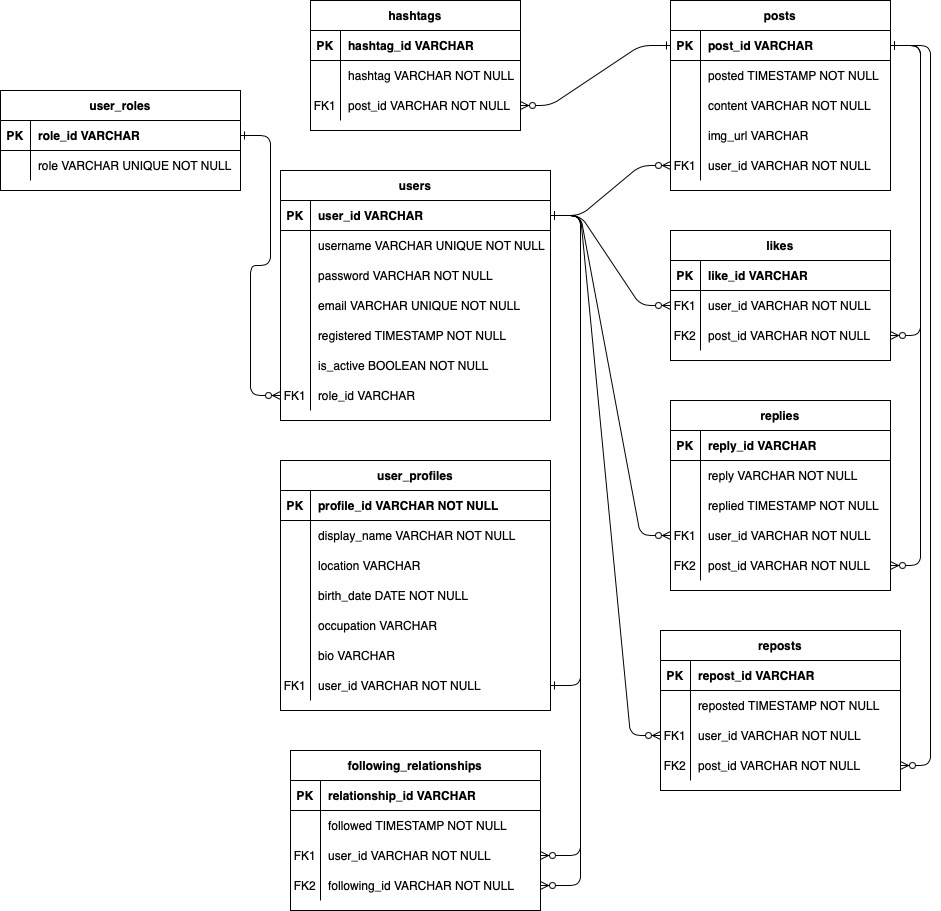
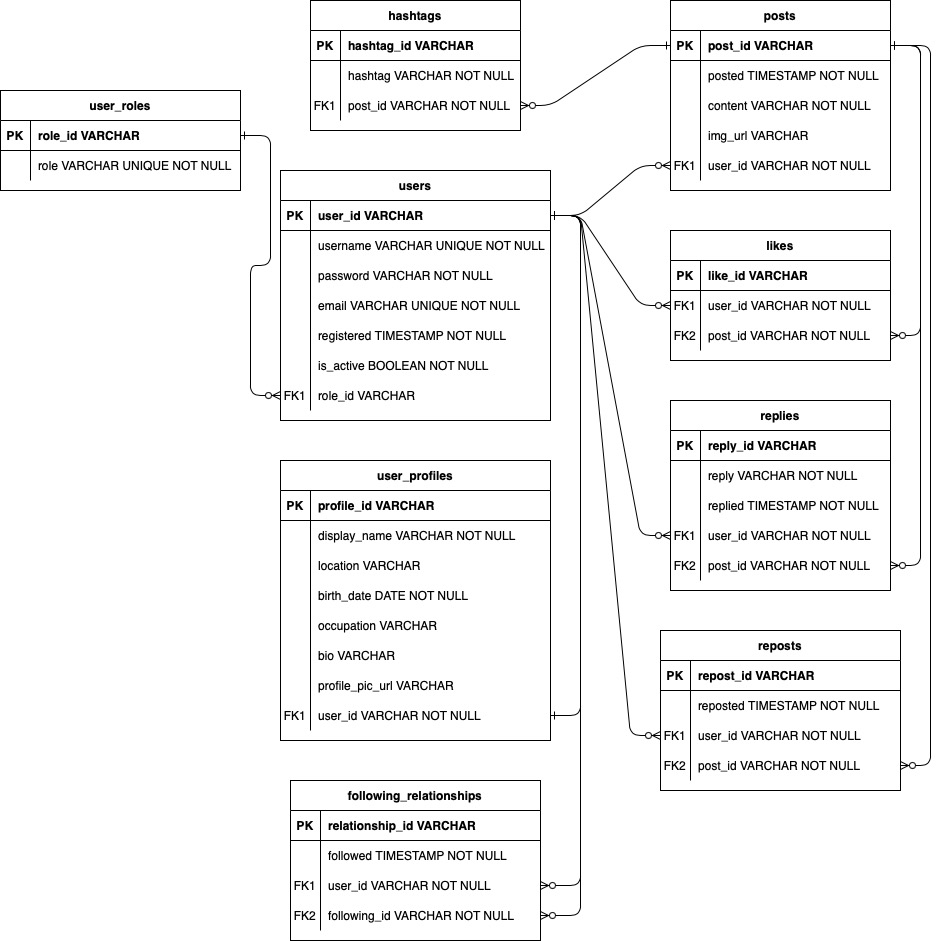
directory changes, profile pic, updated erd

diff --git a/src/main/java/com/revature/sylvester/entities/UserProfile.java b/src/main/java/com/revature/sylvester/entities/UserProfile.java
@@ -26,6 +26,9 @@ public class UserProfile {
     @Column(name = "bio")
     private String bio;
 
+    @Column(name = "profile_pic_url")
+    private String profilePicUrl;
+
     @OneToOne
     @JoinColumn(
             name = "user_id",
@@ -39,23 +42,25 @@ public class UserProfile {
     }
 
     public UserProfile(String profileId, String displayName, String location, LocalDate birthDate, String occupation,
-                       String bio) {
+                       String bio, String profilePicUrl) {
         this.profileId = profileId;
         this.displayName = displayName;
         this.location = location;
         this.birthDate = birthDate;
         this.occupation = occupation;
         this.bio = bio;
+        this.profilePicUrl = profilePicUrl;
     }
 
     public UserProfile(String profileId, String displayName, String location, LocalDate birthDate, String occupation,
-                       String bio, User user) {
+                       String bio, String profilePicUrl, User user) {
         this.profileId = profileId;
         this.displayName = displayName;
         this.location = location;
         this.birthDate = birthDate;
         this.occupation = occupation;
         this.bio = bio;
+        this.profilePicUrl = profilePicUrl;
         this.user = user;
     }
 
@@ -107,6 +112,14 @@ public class UserProfile {
         this.bio = bio;
     }
 
+    public String getProfilePicUrl() {
+        return profilePicUrl;
+    }
+
+    public void setProfilePicUrl(String profilePicUrl) {
+        this.profilePicUrl = profilePicUrl;
+    }
+
     public User getUser() {
         return user;
     }
@@ -121,9 +134,10 @@ public class UserProfile {
                 "profileId='" + profileId + '\'' +
                 ", displayName='" + displayName + '\'' +
                 ", location='" + location + '\'' +
-                ", birthDate='" + birthDate + '\'' +
+                ", birthDate=" + birthDate +
                 ", occupation='" + occupation + '\'' +
                 ", bio='" + bio + '\'' +
+                ", profilePicUrl='" + profilePicUrl + '\'' +
                 ", user=" + user +
                 '}';
     }

diff --git a/src/main/java/com/revature/sylvester/services/UserProfileService.java b/src/main/java/com/revature/sylvester/services/UserProfileService.java
@@ -22,7 +22,7 @@ public class UserProfileService {
 
     public UserProfile signup(NewUserRequest req) {
         UserProfile createdProfile = new UserProfile(UUID.randomUUID().toString(), req.getDisplayName(), null,
-                req.getBirthDate(), null, null);
+                req.getBirthDate(), null, null, null);
 
         createdProfile.setUser(userRepo.findByUsernameAndPassword(req.getUsername(), req.getPassword1()));
         profileRepo.save(createdProfile);

diff --git a/README.md b/README.md
@@ -1,5 +1,5 @@
 
-# Silvester by Team Primary Keys
+# Sylvester by Team Primary Keys
 **[Frontend Repository Here](https://github.com/221114-Java-React/PrimaryKeys-P2-Frontend)**
 
 ## Problem Statement 
